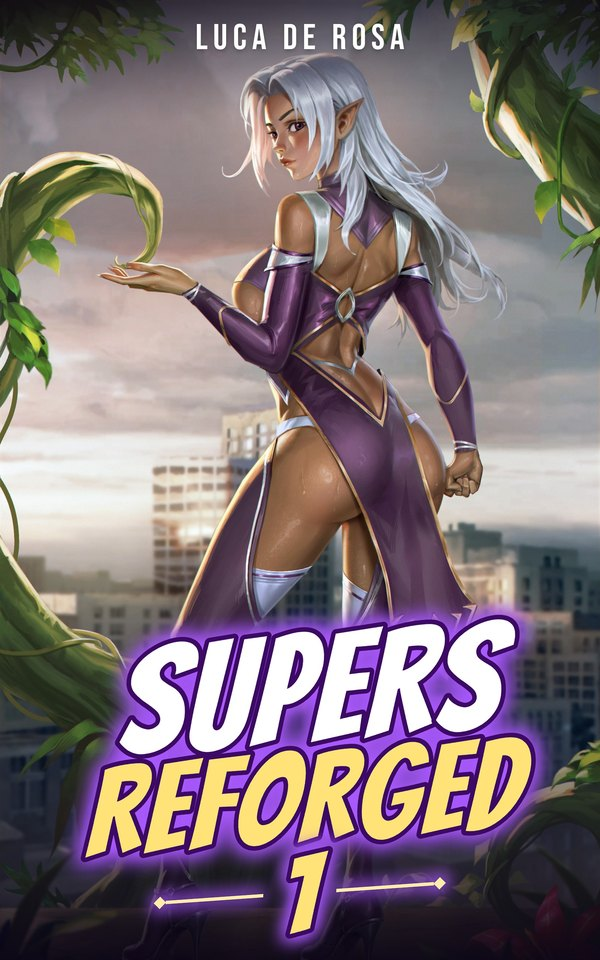
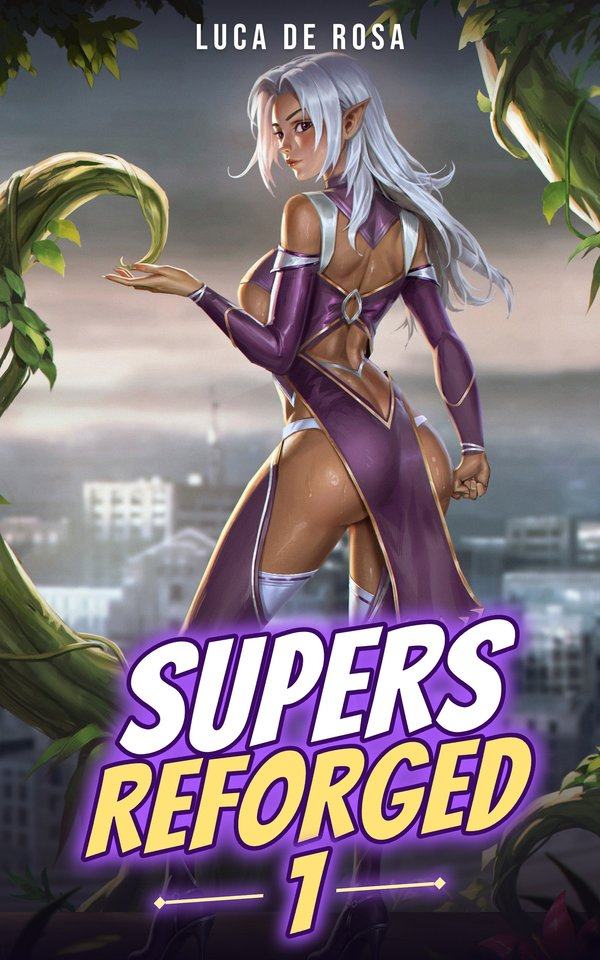
Supers Reforged 1 pre-order: new hero, Supers on the shelf, Royal Road band and audio notice removed, newsletter page rewritten, pre-order news post

diff --git a/news/supers-reforged-pre-order.html b/news/supers-reforged-pre-order.html
@@ -1,0 +1,107 @@
+<!doctype html>
+<html lang="en">
+<head>
+<meta charset="utf-8">
+<meta name="viewport" content="width=device-width, initial-scale=1">
+<title>Supers Reforged is out for Pre-order · Luca De Rosa</title>
+<meta name="description" content="My new novel is finally out for pre-order. Goes live on November 28, with paperback following very soon after.">
+<meta property="og:title" content="Supers Reforged is out for Pre-order">
+<meta property="og:description" content="My new novel is finally out for pre-order. Goes live on November 28, with paperback following very soon after.">
+<meta property="og:type" content="article">
+<meta property="og:url" content="https://rejecthumanity.com/news/supers-reforged-pre-order.html">
+<meta property="og:image" content="https://rejecthumanity.com/assets/news/supers-reforged-1-pre-order.jpg">
+<meta property="og:image:width" content="800">
+<meta property="og:image:height" content="1280">
+<meta property="article:published_time" content="2026-11-22">
+<meta property="article:author" content="https://rejecthumanity.com/">
+<meta property="article:tag" content="news">
+<meta property="article:tag" content="pre-order">
+<meta property="article:tag" content="supers reforged">
+<meta name="twitter:card" content="summary_large_image">
+<link rel="canonical" href="https://rejecthumanity.com/news/supers-reforged-pre-order.html">
+<link rel="icon" href="../favicon.ico" sizes="any">
+<link rel="icon" href="../assets/favicon-32.png" type="image/png" sizes="32x32">
+<link rel="apple-touch-icon" href="../apple-touch-icon.png">
+<meta name="theme-color" content="#02071d">
+<link rel="preload" href="../assets/fonts/MonaSans-VF.woff2" as="font" type="font/woff2" crossorigin>
+<link rel="stylesheet" href="../assets/site.css">
+<script type="application/ld+json">{"@context": "https://schema.org", "@type": "BlogPosting", "headline": "Supers Reforged is out for Pre-order", "description": "My new novel is finally out for pre-order. Goes live on November 28, with paperback following very soon after.", "datePublished": "2026-11-22", "url": "https://rejecthumanity.com/news/supers-reforged-pre-order.html", "mainEntityOfPage": "https://rejecthumanity.com/news/supers-reforged-pre-order.html", "author": {"@type": "Person", "name": "Luca De Rosa", "url": "https://rejecthumanity.com/"}, "image": "https://rejecthumanity.com/assets/news/supers-reforged-1-pre-order.jpg", "keywords": ["news", "pre-order", "supers reforged"]}</script>
+<script src="../assets/zoom.js" defer></script>
+</head>
+<body>
+
+<div class="site">
+
+<!-- chrome:nav -->
+<nav class="nav" aria-label="Main">
+  <div class="wrap nav__bar">
+    <a class="nav__mark" href="../" aria-label="Luca De Rosa, home">Luca De Rosa</a>
+    <button class="nav__here" type="button" aria-expanded="true" aria-controls="nav-links"><span class="nav__here-text">Menu</span><span class="nav__here-mark" aria-hidden="true">&#9662;</span></button>
+    <div class="nav__right" id="nav-links">
+      <div class="nav__links">
+        <a href="../#shelf">Books</a>
+        <a href="../news.html">News</a>
+        <a href="https://discord.gg/NTaDVzCRe4" target="_blank" rel="noopener">Discord</a>
+        <a href="https://www.patreon.com/cw/Luca_DR" target="_blank" rel="noopener">Patreon</a>
+      </div>
+      <a class="btn btn--secondary btn--small nav__cta" href="../newsletter.html">Newsletter</a>
+    </div>
+  </div>
+</nav>
+<script src="../assets/nav.js" defer></script>
+<!-- /chrome:nav -->
+
+<main class="page">
+  <div class="wrap">
+    <article class="article">
+      <p class="article__back"><a href="../news.html"><span aria-hidden="true">←</span> All posts</a></p>
+      <div class="article__head">
+        <h1>Supers Reforged is out for Pre-order</h1>
+        <p class="meta">by Luca De Rosa <span aria-hidden="true">·</span> <time datetime="2026-11-22">22 November 2026</time> <span aria-hidden="true">·</span> 1 min read</p>
+      </div>
+      <div class="article__body">
+          <p>Hello everyone,</p>
+          <p>so, my new novel is finally <a href="https://www.amazon.com/dp/B0HSKG9QDJ" target="_blank" rel="noopener">out for pre-order</a>. Goes live on November 28, with paperback following VERY soon after. I edited it pretty heavily from the initial Royal Road version, and I think the improvements are worth the wait and cashews—that’s what I say.</p>
+          <figure class="article__figure article__figure--tall">
+            <a class="article__pic-link" href="https://www.amazon.com/dp/B0HSKG9QDJ" target="_blank" rel="noopener"><img src="../assets/news/supers-reforged-1-pre-order.jpg" alt="Supers Reforged 1, a superhero harem adventure, on Amazon" width="800" height="1280" loading="lazy" decoding="async"></a>
+          </figure>
+          <p>Hyped to launch this. See you on the ’zon!</p>
+      </div>
+      <div class="article__end">
+        <nav class="article__steps" aria-label="More posts">
+          <a class="article__step article__step--older" href="heralds-of-change-audiobook.html"><span class="meta">Older</span><span>The Heralds of Change is out in audio!</span></a>
+        </nav>
+        <p><a href="../news.html"><span aria-hidden="true">←</span> All posts</a></p>
+      </div>
+    </article>
+  </div>
+</main>
+
+<!-- chrome:foot -->
+<footer class="foot">
+  <div class="wrap">
+    <div class="foot__grid">
+      <div class="foot__about">
+        <p class="foot__mark">Luca De Rosa</p>
+        <p class="meta">A LitRPG author who decided to get a bit spicier. Italian writer, English second language, pizza with a fork eater.</p>        <p class="meta">Questions, swaps, or just saying hi: come find me on <a href="https://discord.gg/NTaDVzCRe4" target="_blank" rel="noopener">Discord</a>.</p>
+      </div>
+      <div class="foot__links">
+      <div class="foot__icons">
+        <a href="https://discord.gg/NTaDVzCRe4" target="_blank" rel="noopener" aria-label="Discord"><svg viewBox="0 0 24 24" width="24" height="24" aria-hidden="true" focusable="false"><path fill="currentColor" d="M20.317 4.3698a19.7913 19.7913 0 00-4.8851-1.5152.0741.0741 0 00-.0785.0371c-.211.3753-.4447.8648-.6083 1.2495-1.8447-.2762-3.68-.2762-5.4868 0-.1636-.3933-.4058-.8742-.6177-1.2495a.077.077 0 00-.0785-.037 19.7363 19.7363 0 00-4.8852 1.515.0699.0699 0 00-.0321.0277C.5334 9.0458-.319 13.5799.0992 18.0578a.0824.0824 0 00.0312.0561c2.0528 1.5076 4.0413 2.4228 5.9929 3.0294a.0777.0777 0 00.0842-.0276c.4616-.6304.8731-1.2952 1.226-1.9942a.076.076 0 00-.0416-.1057c-.6528-.2476-1.2743-.5495-1.8722-.8923a.077.077 0 01-.0076-.1277c.1258-.0943.2517-.1923.3718-.2914a.0743.0743 0 01.0776-.0105c3.9278 1.7933 8.18 1.7933 12.0614 0a.0739.0739 0 01.0785.0095c.1202.099.246.1981.3728.2924a.077.077 0 01-.0066.1276 12.2986 12.2986 0 01-1.873.8914.0766.0766 0 00-.0407.1067c.3604.698.7719 1.3628 1.225 1.9932a.076.076 0 00.0842.0286c1.961-.6067 3.9495-1.5219 6.0023-3.0294a.077.077 0 00.0313-.0552c.5004-5.177-.8382-9.6739-3.5485-13.6604a.061.061 0 00-.0312-.0286zM8.02 15.3312c-1.1825 0-2.1569-1.0857-2.1569-2.419 0-1.3332.9555-2.4189 2.157-2.4189 1.2108 0 2.1757 1.0952 2.1568 2.419 0 1.3332-.9555 2.4189-2.1569 2.4189zm7.9748 0c-1.1825 0-2.1569-1.0857-2.1569-2.419 0-1.3332.9554-2.4189 2.1569-2.4189 1.2108 0 2.1757 1.0952 2.1568 2.419 0 1.3332-.946 2.4189-2.1568 2.4189Z"/></svg></a>
+        <a href="https://www.facebook.com/lucadrauthor/" target="_blank" rel="noopener" aria-label="Facebook"><svg viewBox="0 0 24 24" width="24" height="24" aria-hidden="true" focusable="false"><path fill="currentColor" d="M9.101 23.691v-7.98H6.627v-3.667h2.474v-1.58c0-4.085 1.848-5.978 5.858-5.978.401 0 .955.042 1.468.103a8.68 8.68 0 0 1 1.141.195v3.325a8.623 8.623 0 0 0-.653-.036 26.805 26.805 0 0 0-.733-.009c-.707 0-1.259.096-1.675.309a1.686 1.686 0 0 0-.679.622c-.258.42-.374.995-.374 1.752v1.297h3.919l-.386 2.103-.287 1.564h-3.246v8.245C19.396 23.238 24 18.179 24 12.044c0-6.627-5.373-12-12-12s-12 5.373-12 12c0 5.628 3.874 10.35 9.101 11.647Z"/></svg></a>
+        <a href="https://www.instagram.com/lucadr_author/" target="_blank" rel="noopener" aria-label="Instagram"><svg viewBox="0 0 24 24" width="24" height="24" aria-hidden="true" focusable="false"><path fill="currentColor" d="M7.0301.084c-1.2768.0602-2.1487.264-2.911.5634-.7888.3075-1.4575.72-2.1228 1.3877-.6652.6677-1.075 1.3368-1.3802 2.127-.2954.7638-.4956 1.6365-.552 2.914-.0564 1.2775-.0689 1.6882-.0626 4.947.0062 3.2586.0206 3.6671.0825 4.9473.061 1.2765.264 2.1482.5635 2.9107.308.7889.72 1.4573 1.388 2.1228.6679.6655 1.3365 1.0743 2.1285 1.38.7632.295 1.6361.4961 2.9134.552 1.2773.056 1.6884.069 4.9462.0627 3.2578-.0062 3.668-.0207 4.9478-.0814 1.28-.0607 2.147-.2652 2.9098-.5633.7889-.3086 1.4578-.72 2.1228-1.3881.665-.6682 1.0745-1.3378 1.3795-2.1284.2957-.7632.4966-1.636.552-2.9124.056-1.2809.0692-1.6898.063-4.948-.0063-3.2583-.021-3.6668-.0817-4.9465-.0607-1.2797-.264-2.1487-.5633-2.9117-.3084-.7889-.72-1.4568-1.3876-2.1228C21.2982 1.33 20.628.9208 19.8378.6165 19.074.321 18.2017.1197 16.9244.0645 15.6471.0093 15.236-.005 11.977.0014 8.718.0076 8.31.0215 7.0301.0839m.1402 21.6932c-1.17-.0509-1.8053-.2453-2.2287-.408-.5606-.216-.96-.4771-1.3819-.895-.422-.4178-.6811-.8186-.9-1.378-.1644-.4234-.3624-1.058-.4171-2.228-.0595-1.2645-.072-1.6442-.079-4.848-.007-3.2037.0053-3.583.0607-4.848.05-1.169.2456-1.805.408-2.2282.216-.5613.4762-.96.895-1.3816.4188-.4217.8184-.6814 1.3783-.9003.423-.1651 1.0575-.3614 2.227-.4171 1.2655-.06 1.6447-.072 4.848-.079 3.2033-.007 3.5835.005 4.8495.0608 1.169.0508 1.8053.2445 2.228.408.5608.216.96.4754 1.3816.895.4217.4194.6816.8176.9005 1.3787.1653.4217.3617 1.056.4169 2.2263.0602 1.2655.0739 1.645.0796 4.848.0058 3.203-.0055 3.5834-.061 4.848-.051 1.17-.245 1.8055-.408 2.2294-.216.5604-.4763.96-.8954 1.3814-.419.4215-.8181.6811-1.3783.9-.4224.1649-1.0577.3617-2.2262.4174-1.2656.0595-1.6448.072-4.8493.079-3.2045.007-3.5825-.006-4.848-.0608M16.953 5.5864A1.44 1.44 0 1 0 18.39 4.144a1.44 1.44 0 0 0-1.437 1.4424M5.8385 12.012c.0067 3.4032 2.7706 6.1557 6.173 6.1493 3.4026-.0065 6.157-2.7701 6.1506-6.1733-.0065-3.4032-2.771-6.1565-6.174-6.1498-3.403.0067-6.156 2.771-6.1496 6.1738M8 12.0077a4 4 0 1 1 4.008 3.9921A3.9996 3.9996 0 0 1 8 12.0077"/></svg></a>
+        <a href="https://www.threads.com/@lucadr_author" target="_blank" rel="noopener" aria-label="Threads"><svg viewBox="0 0 24 24" width="24" height="24" aria-hidden="true" focusable="false"><path fill="currentColor" d="M12.186 24h-.007c-3.581-.024-6.334-1.205-8.184-3.509C2.35 18.44 1.5 15.586 1.472 12.01v-.017c.03-3.579.879-6.43 2.525-8.482C5.845 1.205 8.6.024 12.18 0h.014c2.746.02 5.043.725 6.826 2.098 1.677 1.29 2.858 3.13 3.509 5.467l-2.04.569c-1.104-3.96-3.898-5.984-8.304-6.015-2.91.022-5.11.936-6.54 2.717C4.307 6.504 3.616 8.914 3.589 12c.027 3.086.718 5.496 2.057 7.164 1.43 1.783 3.631 2.698 6.54 2.717 2.623-.02 4.358-.631 5.8-2.045 1.647-1.613 1.618-3.593 1.09-4.798-.31-.71-.873-1.3-1.634-1.75-.192 1.352-.622 2.446-1.284 3.272-.886 1.102-2.14 1.704-3.73 1.79-1.202.065-2.361-.218-3.259-.801-1.063-.689-1.685-1.74-1.752-2.964-.065-1.19.408-2.285 1.33-3.082.88-.76 2.119-1.207 3.583-1.291a13.853 13.853 0 0 1 3.02.142c-.126-.742-.375-1.332-.75-1.757-.513-.586-1.308-.883-2.359-.89h-.029c-.844 0-1.992.232-2.721 1.32L7.734 7.847c.98-1.454 2.568-2.256 4.478-2.256h.044c3.194.02 5.097 1.975 5.287 5.388.108.046.216.094.321.142 1.49.7 2.58 1.761 3.154 3.07.797 1.82.871 4.79-1.548 7.158-1.85 1.81-4.094 2.628-7.277 2.65Zm1.003-11.69c-.242 0-.487.007-.739.021-1.836.103-2.98.946-2.916 2.143.067 1.256 1.452 1.839 2.784 1.767 1.224-.065 2.818-.543 3.086-3.71a10.5 10.5 0 0 0-2.215-.221z"/></svg></a>
+        <a href="https://x.com/LukeDR1998" target="_blank" rel="noopener" aria-label="X (Twitter)"><svg viewBox="0 0 24 24" width="24" height="24" aria-hidden="true" focusable="false"><path fill="currentColor" d="M18.901 1.153h3.68l-8.04 9.19L24 22.846h-7.406l-5.8-7.584-6.638 7.584H.474l8.6-9.83L0 1.154h7.594l5.243 6.932ZM17.61 20.644h2.039L6.486 3.24H4.298Z"/></svg></a>
+      </div>
+      <p class="foot__also">Also on <a href="https://www.royalroad.com/profile/173552" target="_blank" rel="noopener">Royal Road</a> · <a href="https://www.scribblehub.com/profile/25039/lucader881/" target="_blank" rel="noopener">Scribble Hub</a> · <a href="https://www.patreon.com/cw/Luca_DR" target="_blank" rel="noopener">Patreon</a> · <a href="https://www.amazon.com/stores/Luca-De-Rosa/author/B0C8GHW891" target="_blank" rel="noopener">Amazon</a> · <a href="https://www.goodreads.com/author/show/54348673.Luca_De_Rosa" target="_blank" rel="noopener">Goodreads</a> · <a href="https://harem-lit.com/authors/luca-dr" target="_blank" rel="noopener">Harem-Lit</a></p>
+      <p class="foot__privacy"><a href="../privacy.html">Privacy</a></p>
+      </div>
+    </div>
+    <p class="foot__legal">© 2026 Luca De Rosa</p>
+  </div>
+</footer>
+<!-- /chrome:foot -->
+
+</div>
+</body>
+</html>

diff --git a/index.html b/index.html
@@ -59,7 +59,6 @@
     <div class="nav__right" id="nav-links">
       <div class="nav__links">
         <a href="#shelf">Books</a>
-        <a href="#free">Read free</a>
         <a href="news.html">News</a>
         <a href="https://discord.gg/NTaDVzCRe4" target="_blank" rel="noopener">Discord</a>
         <a href="https://www.patreon.com/cw/Luca_DR" target="_blank" rel="noopener">Patreon</a>
@@ -74,33 +73,21 @@
 <header class="hero" id="top">
   <div class="wrap hero__grid">
     <div class="hero__text">
-      <h1>The Heralds of Change is out.</h1>
-      <p class="lead">Book 2 of my harem LitRPG: a dragon girl, a dryad, and… another??</p>
+      <h1>Supers Reforged 1 is out for pre-order.</h1>
+      <p class="lead">Superpowers have always been a lottery. Awaken, read the hint, and hope for the best. Live on Kindle November 28.</p>
       <div class="actions">
-        <a class="btn btn--primary" href="https://www.amazon.com/dp/B0H1M69GRZ" target="_blank" rel="noopener">Start with Book 1</a>
-        <a class="btn btn--secondary" href="https://www.amazon.com/dp/B0H68716S1" target="_blank" rel="noopener">Book 2 on Kindle</a>
+        <a class="btn btn--primary" href="https://www.amazon.com/dp/B0HSKG9QDJ" target="_blank" rel="noopener">Pre-order on Kindle</a>
       </div>
     </div>
     <div class="hero__art">
       <div class="fan">
-        <a class="fan__card fan__card--left" href="https://www.amazon.com/dp/B0H1M69GRZ" target="_blank" rel="noopener"><img src="assets/covers/bound_1.jpg" width="600" height="900" alt="A Bond Between Equals, Bound to the Fallen Book 1, on Amazon"></a>
-        <span class="fan__card fan__card--right"><img src="assets/covers/bound_3.jpg" width="600" height="900" alt="Bound to the Fallen Book 3, date to be announced"></span>
-        <a class="fan__card fan__card--front" href="https://www.amazon.com/dp/B0H68716S1" target="_blank" rel="noopener"><img src="assets/covers/bound_2.jpg" width="600" height="900" alt="The Heralds of Change, Bound to the Fallen Book 2, on Amazon"></a>
+        <a class="fan__card fan__card--front fan__card--tall" href="https://www.amazon.com/dp/B0HSKG9QDJ" target="_blank" rel="noopener"><img src="assets/covers/supers_1.jpg" width="600" height="960" alt="Supers Reforged 1: A Superhero Harem Adventure, on pre-order on Amazon"></a>
       </div>
     </div>
   </div>
 </header>
 
 <main>
-
-<aside class="notice" aria-label="Audiobook news">
-  <div class="wrap">
-    <div class="notice__box">
-      <p class="notice__text"><span class="notice__tag">New</span> <span><cite>The Heralds of Change</cite> is out on Siren Audio, narrated by Boise Blue and Nikki Lyons.</span></p>
-      <a class="btn btn-audible" href="https://siren.audio/audiobooks/the-heralds-of-change-bound-to-the-fallen-book-2" target="_blank" rel="noopener">Listen on Siren Audio</a>
-    </div>
-  </div>
-</aside>
 
 <section class="nx" aria-label="Side project: Nexus">
   <div class="wrap">
@@ -131,6 +118,17 @@
       </div>
     </div>
     <ul class="shelf">
+      <li class="series">
+        <div class="series__text">
+          <h3 class="flanked"><span class="flank flank--supers">Supers<span class="title-br"> </span>Reforged</span></h3>
+          <ul class="tags" aria-label="Genre"><li>Progression</li><li>Superhero</li><li>Harem</li></ul>
+          <p>Superpowers are a lottery, and I was given the privilege of obtaining a really useless one. Then my grandpa’s hidden lab woke a second power: to take, alter, improve and bestow superpowers to anyone, with a single touch.</p>
+          <p class="meta">Book 1 on pre-order, live on Kindle November 28; paperback soon after. Book 2: date TBA.</p>
+        </div>
+        <div class="covers">
+          <a class="cover cover--tall" href="https://www.amazon.com/dp/B0HSKG9QDJ" target="_blank" rel="noopener"><span class="cover__frame"><img src="assets/covers/supers_1.jpg" width="600" height="960" alt="Supers Reforged 1"></span><small>Book 1 · pre-order</small></a>
+        </div>
+      </li>
       <li class="series">
         <div class="series__text">
           <h3 class="flanked"><span class="flank flank--bound">Bound to<span class="title-br"> </span>the Fallen</span></h3>
@@ -173,45 +171,13 @@
   </div>
 </section>
 
-<section class="band" id="free">
-  <div class="wrap">
-    <div class="seam">
-      <div class="sysbox sysbox--supers">
-        <p class="sysbox__tag" aria-hidden="true">[ Side quest available ]</p>
-        <h2>Supers Reforged, free on Royal Road</h2>
-      </div>
-    </div>
-  <div class="split">
-    <div class="split__art">
-      <a href="https://www.royalroad.com/fiction/183557/supers-reforged" target="_blank" rel="noopener"><img src="assets/covers/supers_1.jpg" width="600" height="960" alt="Supers Reforged 1, on Royal Road"></a>
-    </div>
-    <div class="split__text">
-      <ul class="tags" aria-label="Genre"><li>Progression</li><li>Superhero</li><li>Harem</li></ul>
-      <p class="lead">Superpowers are a lottery, and I was given the privilege of obtaining a really useless one.</p>
-      <details class="more" open>
-        <summary>Read more</summary>
-        <p>Then my grandpa’s hidden lab woke a second power: to take, alter, improve and bestow superpowers to anyone, with a single touch. This is a harem story.</p>
-        <p>Free while I write it; patrons read ahead. Then Book 1 goes to Kindle Unlimited. Supers Reforged 2: date TBA.</p>
-      </details>
-      <div class="actions">
-        <a class="btn btn--primary" href="https://www.royalroad.com/fiction/183557/supers-reforged" target="_blank" rel="noopener"><span class="phone-hide">Read on&nbsp;</span>Royal Road</a>
-        <a class="btn btn--secondary" href="https://www.scribblehub.com/series/2474540/supers-reforged/" target="_blank" rel="noopener"><span class="phone-hide">Read on&nbsp;</span>Scribble Hub</a>
-        <a class="btn btn--secondary" href="https://www.patreon.com/cw/Luca_DR" target="_blank" rel="noopener">Read ahead on Patreon</a>
-      </div>
-    </div>
-  </div>
-  </div>
-</section>
-
-<script>/* the phone folds the Supers blurb under "Read more"; without script, or on a wider screen, it stays open */if (matchMedia('(max-width: 60rem)').matches) document.querySelector('#free .more').open = false;</script>
-
 <!-- news:latest -->
 <section class="latest" id="latest" aria-labelledby="latest-title">
   <div class="wrap">
-    <a class="latest__card" href="news/heralds-of-change-audiobook.html">
-      <p class="meta"><span class="latest__label">From the blog</span> <span aria-hidden="true">·</span> <time datetime="2026-11-11">11 November 2026</time> <span aria-hidden="true">·</span> 1 min read</p>
-      <h2 class="latest__title" id="latest-title">The Heralds of Change is out in audio!</h2>
-      <p class="latest__excerpt">Bound to the Fallen book 2 is out on Siren Audio, narrated in duet by Boise Blue and Nikki Lyons.</p>
+    <a class="latest__card" href="news/supers-reforged-pre-order.html">
+      <p class="meta"><span class="latest__label">From the blog</span> <span aria-hidden="true">·</span> <time datetime="2026-11-22">22 November 2026</time> <span aria-hidden="true">·</span> 1 min read</p>
+      <h2 class="latest__title" id="latest-title">Supers Reforged is out for Pre-order</h2>
+      <p class="latest__excerpt">My new novel is finally out for pre-order. Goes live on November 28, with paperback following very soon after.</p>
       <span class="latest__more">Read the post <span aria-hidden="true">→</span></span>
     </a>
     <p class="latest__all"><a href="news.html">All posts</a></p>

diff --git a/newsletter.html b/newsletter.html
@@ -4,9 +4,9 @@
 <meta charset="utf-8">
 <meta name="viewport" content="width=device-width, initial-scale=1">
 <title>Newsletter · Luca De Rosa</title>
-<meta name="description" content="Get one email the moment Supers Reforged is up for pre-order on Amazon, and when each new book by Luca De Rosa comes out. Nothing else.">
-<meta property="og:title" content="Know the moment it's up for pre-order">
-<meta property="og:description" content="Supers Reforged is coming to Amazon. One email when it's up for pre-order. Nothing else.">
+<meta name="description" content="One email when a new book by Luca De Rosa comes out. Supers Reforged 1 is on pre-order now, live on Kindle November 28. Nothing else.">
+<meta property="og:title" content="An email when a book comes out">
+<meta property="og:description" content="Supers Reforged 1 is on pre-order now. One email when each new book comes out. Nothing else.">
 <meta property="og:type" content="website">
 <meta property="og:url" content="https://rejecthumanity.com/newsletter">
 <meta property="og:image" content="https://rejecthumanity.com/assets/og.jpg">
@@ -34,7 +34,6 @@
     <div class="nav__right" id="nav-links">
       <div class="nav__links">
         <a href="./#shelf">Books</a>
-        <a href="./#free">Read free</a>
         <a href="./news.html">News</a>
         <a href="https://discord.gg/NTaDVzCRe4" target="_blank" rel="noopener">Discord</a>
         <a href="https://www.patreon.com/cw/Luca_DR" target="_blank" rel="noopener">Patreon</a>
@@ -49,23 +48,23 @@
 <main class="page signup">
   <div class="wrap split">
     <div class="split__art">
-      <img src="assets/covers/supers_1.jpg" width="600" height="960" alt="Supers Reforged 1 cover">
+      <a href="https://www.amazon.com/dp/B0HSKG9QDJ" target="_blank" rel="noopener"><img src="assets/covers/supers_1.jpg" width="600" height="960" alt="Supers Reforged 1, on pre-order on Amazon"></a>
     </div>
     <div class="split__text">
-      <p class="sysbox__tag signup__tag">[ Coming to Amazon ]</p>
-      <h1>Know the moment it's up for pre-order</h1>
-      <p class="lead">Supers Reforged is coming to Kindle. Leave your email and I'll tell you the moment you can pre-order it.</p>
+      <p class="sysbox__tag signup__tag">[ Out for pre-order ]</p>
+      <h1>An email when a book comes out</h1>
+      <p class="lead"><a href="https://www.amazon.com/dp/B0HSKG9QDJ" target="_blank" rel="noopener">Supers Reforged 1</a> is on pre-order now, live on Kindle November 28. Leave your email and I'll tell you when the next book comes out.</p>
       <form class="form__fields signup__form" id="signup" action="https://assets.mailerlite.com/jsonp/1741492/forms/164169874304664859/subscribe" method="post" target="_blank">
         <label for="email">Email address</label>
         <div class="form__row">
           <input id="email" name="fields[email]" type="email" autocomplete="email" inputmode="email" required>
           <input type="hidden" name="ml-submit" value="1">
           <input type="hidden" name="anticsrf" value="true">
-          <button class="btn btn--primary" type="submit">Tell me</button>
+          <button class="btn btn--primary" type="submit">Sign me up</button>
         </div>
         <p class="form__help" id="signup-help" aria-live="polite">One email to confirm first. Unsubscribe anytime. <a href="privacy.html">Privacy</a></p>
       </form>
-      <p class="meta">After that I use it sparingly: only when a book comes out. Nothing else.</p>
+      <p class="meta">I use it sparingly: only when a book comes out or opens for pre-order. Nothing else.</p>
       <script>
       (() => {
         const form = document.getElementById("signup");

diff --git a/news.html b/news.html
@@ -25,7 +25,6 @@
     <div class="nav__right" id="nav-links">
       <div class="nav__links">
         <a href="./#shelf">Books</a>
-        <a href="./#free">Read free</a>
         <a href="./news.html">News</a>
         <a href="https://discord.gg/NTaDVzCRe4" target="_blank" rel="noopener">Discord</a>
         <a href="https://www.patreon.com/cw/Luca_DR" target="_blank" rel="noopener">Patreon</a>
@@ -42,6 +41,13 @@
     <div class="prose news">
       <h1>News</h1>
       <!-- news:posts -->
+      <article class="card-post" id="2026-11-22-supers-reforged-pre-order" data-tags="news,pre-order,supers reforged">
+        <a class="card-post__pic" href="news/supers-reforged-pre-order.html" tabindex="-1" aria-hidden="true"><img src="assets/news/supers-reforged-1-pre-order.jpg" alt="" width="800" height="1280" loading="lazy" decoding="async"></a>
+        <p class="meta"><time datetime="2026-11-22">22 November 2026</time> <span aria-hidden="true">·</span> 1 min read</p>
+        <h2><a href="news/supers-reforged-pre-order.html">Supers Reforged is out for Pre-order</a></h2>
+        <p class="card-post__excerpt">My new novel is finally out for pre-order. Goes live on November 28, with paperback following very soon after.</p>
+        <p><a class="card-post__more" href="news/supers-reforged-pre-order.html">Read the post <span aria-hidden="true">→</span></a></p>
+      </article>
       <article class="card-post" id="2026-11-11-heralds-of-change-audiobook" data-tags="news,audiobooks,bound to the fallen">
         <a class="card-post__pic" href="news/heralds-of-change-audiobook.html" tabindex="-1" aria-hidden="true"><img src="assets/news/heralds-of-change-audiobook.jpg" alt="" width="1200" height="1200" loading="lazy" decoding="async"></a>
         <p class="meta"><time datetime="2026-11-11">11 November 2026</time> <span aria-hidden="true">·</span> 1 min read</p>

diff --git a/assets/site.css b/assets/site.css
@@ -139,6 +139,7 @@ a.fan__card:hover img{translate:0 -6px;filter:none}
 .flank--bound{--l:url("icons/angel.svg");--lp:0.045;--lg:oklch(85% 0.09 230 / 0.7);--r:url("icons/bat.svg");--rp:0.035;--rg:oklch(55% 0.2 340 / 0.75)}
 .flank--infinity{--l:url("icons/torch.svg");--lsx:-1;--lp:0.041;--lg:oklch(80% 0.15 70 / 0.75);--r:url("icons/torch.svg");--rsx:1;--rp:0.041;--rg:oklch(80% 0.15 70 / 0.75)}
 .flank--edge{--l:url("icons/meteor.svg");--lp:0.037;--lg:oklch(66% 0.2 35 / 0.75);--r:url("icons/meteor.svg");--rp:0.037;--rg:oklch(66% 0.2 35 / 0.75)}
+.flank--supers{--l:url("icons/bolt.svg");--lp:0.16;--lg:color-mix(in oklab,#a759fc 75%,transparent);--r:url("icons/bolt.svg");--rp:0.16;--rg:color-mix(in oklab,#a759fc 75%,transparent)}
 /* genre tags: square, body face, sentence case */
 .tags{display:flex;flex-wrap:wrap;gap:8px;list-style:none;margin:0;padding:0}
 .tags li{font-size:0.875rem;font-weight:500;color:var(--ink-2);padding:4px 12px;border:1px solid var(--rule-2);line-height:1.4}
@@ -513,3 +514,7 @@ a.fan__card:hover img{translate:0 -6px;filter:none}
 .signup__tag{color:color-mix(in oklab,#a759fc 55%,white);margin:0}
 .signup__form{width:100%;max-width:34rem}
 @media (max-width: 60rem){.signup .split__text{order:-1}.signup .split__art img{max-width:200px}.signup__form{text-align:left}}
+
+/* Supers covers are 5:8, not 2:3 (2026-11-22): the fan card and the shelf cover keep their own ratio so the lettering is neither stretched nor cropped */
+.fan__card--tall{aspect-ratio:5/8}
+.cover--tall img{height:auto;aspect-ratio:5/8}

diff --git a/news/heralds-of-change-audiobook.html b/news/heralds-of-change-audiobook.html
@@ -40,7 +40,6 @@
     <div class="nav__right" id="nav-links">
       <div class="nav__links">
         <a href="../#shelf">Books</a>
-        <a href="../#free">Read free</a>
         <a href="../news.html">News</a>
         <a href="https://discord.gg/NTaDVzCRe4" target="_blank" rel="noopener">Discord</a>
         <a href="https://www.patreon.com/cw/Luca_DR" target="_blank" rel="noopener">Patreon</a>
@@ -71,6 +70,7 @@
       </div>
       <div class="article__end">
         <nav class="article__steps" aria-label="More posts">
+          <a class="article__step article__step--newer" href="supers-reforged-pre-order.html"><span class="meta">Newer</span><span>Supers Reforged is out for Pre-order</span></a>
           <a class="article__step article__step--older" href="how-degenerate-are-you.html"><span class="meta">Older</span><span>How Degenerate Are You?</span></a>
         </nav>
         <p><a href="../news.html"><span aria-hidden="true">←</span> All posts</a></p>

diff --git a/news/first-post.html b/news/first-post.html
@@ -41,7 +41,6 @@
     <div class="nav__right" id="nav-links">
       <div class="nav__links">
         <a href="../#shelf">Books</a>
-        <a href="../#free">Read free</a>
         <a href="../news.html">News</a>
         <a href="https://discord.gg/NTaDVzCRe4" target="_blank" rel="noopener">Discord</a>
         <a href="https://www.patreon.com/cw/Luca_DR" target="_blank" rel="noopener">Patreon</a>

diff --git a/news/how-degenerate-are-you.html b/news/how-degenerate-are-you.html
@@ -42,7 +42,6 @@
     <div class="nav__right" id="nav-links">
       <div class="nav__links">
         <a href="../#shelf">Books</a>
-        <a href="../#free">Read free</a>
         <a href="../news.html">News</a>
         <a href="https://discord.gg/NTaDVzCRe4" target="_blank" rel="noopener">Discord</a>
         <a href="https://www.patreon.com/cw/Luca_DR" target="_blank" rel="noopener">Patreon</a>

diff --git a/nexus/nexus-0-10-0.html b/nexus/nexus-0-10-0.html
@@ -41,7 +41,6 @@
     <div class="nav__right" id="nav-links">
       <div class="nav__links">
         <a href="../#shelf">Books</a>
-        <a href="../#free">Read free</a>
         <a href="../news.html">News</a>
         <a href="https://discord.gg/NTaDVzCRe4" target="_blank" rel="noopener">Discord</a>
         <a href="https://www.patreon.com/cw/Luca_DR" target="_blank" rel="noopener">Patreon</a>

diff --git a/nexus/nexus-0-11-0.html b/nexus/nexus-0-11-0.html
@@ -41,7 +41,6 @@
     <div class="nav__right" id="nav-links">
       <div class="nav__links">
         <a href="../#shelf">Books</a>
-        <a href="../#free">Read free</a>
         <a href="../news.html">News</a>
         <a href="https://discord.gg/NTaDVzCRe4" target="_blank" rel="noopener">Discord</a>
         <a href="https://www.patreon.com/cw/Luca_DR" target="_blank" rel="noopener">Patreon</a>

diff --git a/nexus/nexus-0-12-0.html b/nexus/nexus-0-12-0.html
@@ -41,7 +41,6 @@
     <div class="nav__right" id="nav-links">
       <div class="nav__links">
         <a href="../#shelf">Books</a>
-        <a href="../#free">Read free</a>
         <a href="../news.html">News</a>
         <a href="https://discord.gg/NTaDVzCRe4" target="_blank" rel="noopener">Discord</a>
         <a href="https://www.patreon.com/cw/Luca_DR" target="_blank" rel="noopener">Patreon</a>

diff --git a/nexus/nexus-0-13-0.html b/nexus/nexus-0-13-0.html
@@ -41,7 +41,6 @@
     <div class="nav__right" id="nav-links">
       <div class="nav__links">
         <a href="../#shelf">Books</a>
-        <a href="../#free">Read free</a>
         <a href="../news.html">News</a>
         <a href="https://discord.gg/NTaDVzCRe4" target="_blank" rel="noopener">Discord</a>
         <a href="https://www.patreon.com/cw/Luca_DR" target="_blank" rel="noopener">Patreon</a>
